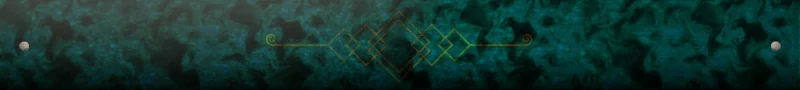
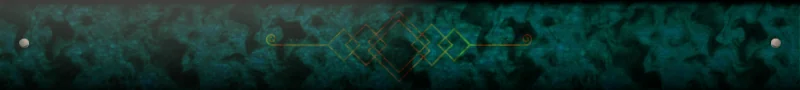
Release v0.1.92

diff --git a/styles/ouw25.css b/styles/ouw25.css
@@ -2112,15 +2112,6 @@ body.game .application.ouw25.ouw25-unluck-dialog .ouw25-unluck-donation-actions 
   filter: drop-shadow(2px -2px 0.3rem rgba(0, 0, 0, 0.7));
 }
 
-body.game .application.ouw25.ouw25-bargain-dialog .ouw25-bargain-toolbar > [data-transfer-check] > span > span,
-body.game .application.ouw25.ouw25-unluck-dialog .ouw25-unluck-toolbar > [data-transfer-bargain] > span > span {
-  position: relative;
-  top: 2px;
-  background: var(--ouw25-bargain-brass);
-  background-clip: text;
-  -webkit-background-clip: text;
-}
-
 body.game .application.ouw25.ouw25-bargain-dialog .ouw25-bargain-toolbar > [data-transfer-check]:hover:not(:disabled),
 body.game .application.ouw25.ouw25-unluck-dialog .ouw25-unluck-toolbar > [data-transfer-bargain]:hover:not(:disabled),
 body.game .application.ouw25.ouw25-unluck-dialog .ouw25-unluck-donation-actions > button:hover:not(:disabled) {
@@ -2137,9 +2128,7 @@ body.game .application.ouw25.ouw25-unluck-dialog .ouw25-unluck-donation-actions 
 
 @media (forced-colors: active) {
   body.game .application.ouw25.ouw25-bargain-dialog .ouw25-bargain-toolbar > [data-transfer-check] > span,
-  body.game .application.ouw25.ouw25-bargain-dialog .ouw25-bargain-toolbar > [data-transfer-check] > span > span,
   body.game .application.ouw25.ouw25-unluck-dialog .ouw25-unluck-toolbar > [data-transfer-bargain] > span,
-  body.game .application.ouw25.ouw25-unluck-dialog .ouw25-unluck-toolbar > [data-transfer-bargain] > span > span,
   body.game .application.ouw25.ouw25-unluck-dialog .ouw25-unluck-donation-actions > button > span {
     background: none;
     color: ButtonText;
@@ -2607,7 +2596,14 @@ body.game .application.ouw25 .ouw25-unluck .ouw25-wound-slots > .ouw25-condition
   block-size: 49px;
 }
 
+body.game .application.ouw25 .ouw25-unluck .ouw25-wound-slots > .ouw25-condition-check:has(input:checked:disabled) {
+  opacity: 0.5;
+  cursor: not-allowed;
+}
+
 body.game .application.ouw25 .ouw25-unluck .ouw25-wound-slots .ouw25-condition-check::before {
+  position: relative;
+  z-index: 1;
   inline-size: 41px;
   block-size: 41px;
 }
@@ -2785,6 +2781,24 @@ body.game .application.ouw25.ouw25-unluck-dialog .ouw25-unluck [data-odds] {
   font-family: "Iosevka Charon Mono", monospace;
   font-weight: 700;
   text-shadow: 0 1px 2px #000;
+}
+
+body.game .application.ouw25.ouw25-unluck-dialog .ouw25-unluck [data-odds] [data-odds-outcome="failure"] {
+  color: #ff8b82;
+}
+
+body.game .application.ouw25.ouw25-unluck-dialog .ouw25-unluck [data-odds] [data-odds-outcome="partial"] {
+  color: #ffe078;
+}
+
+body.game .application.ouw25.ouw25-unluck-dialog .ouw25-unluck [data-odds] [data-odds-outcome="success"] {
+  color: #a6e89a;
+}
+
+@media (forced-colors: active) {
+  body.game .application.ouw25.ouw25-unluck-dialog .ouw25-unluck [data-odds] [data-odds-outcome] {
+    color: CanvasText;
+  }
 }
 
 body.game .application.ouw25.ouw25-unluck-dialog .dialog-content .ouw25-unluck-luck-actions > button {
